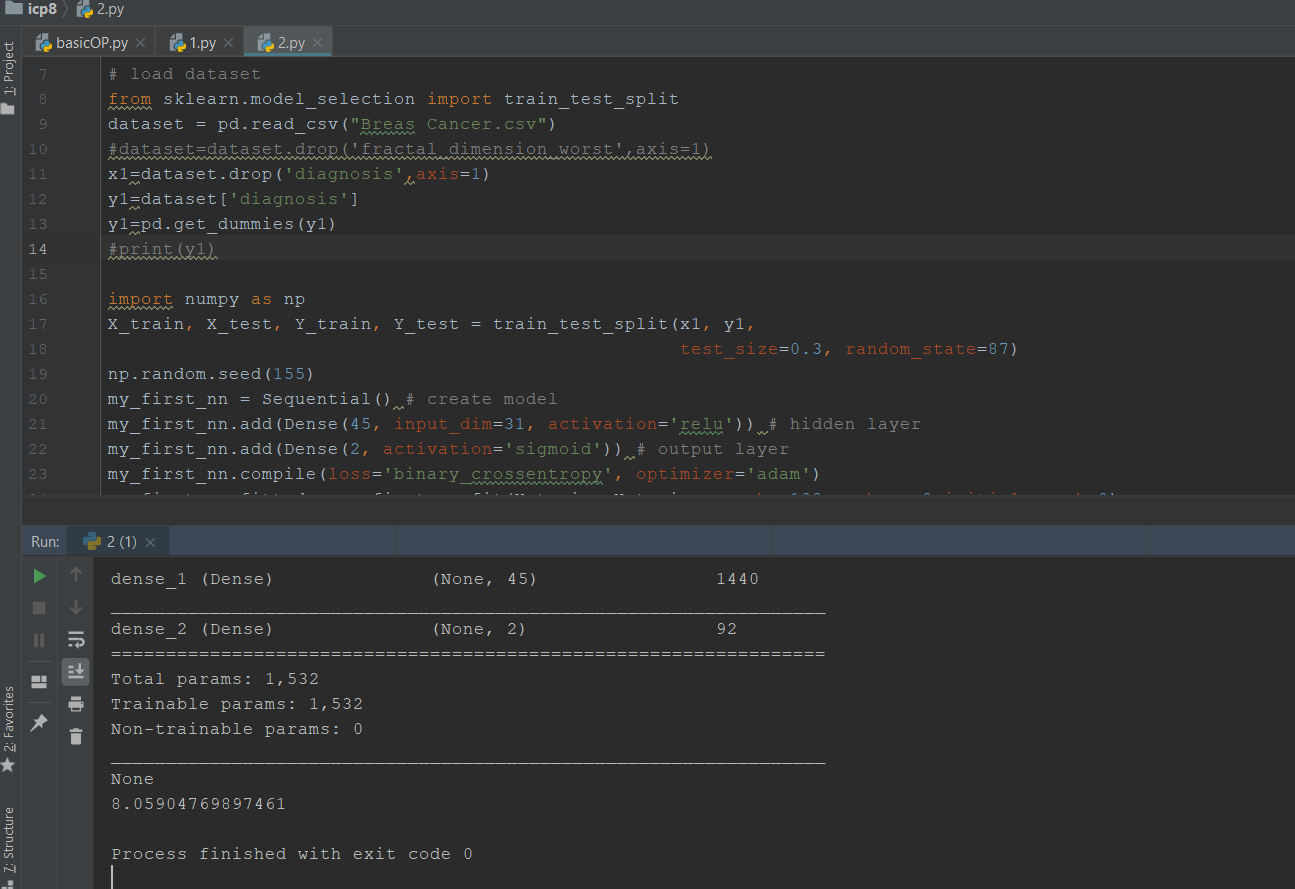
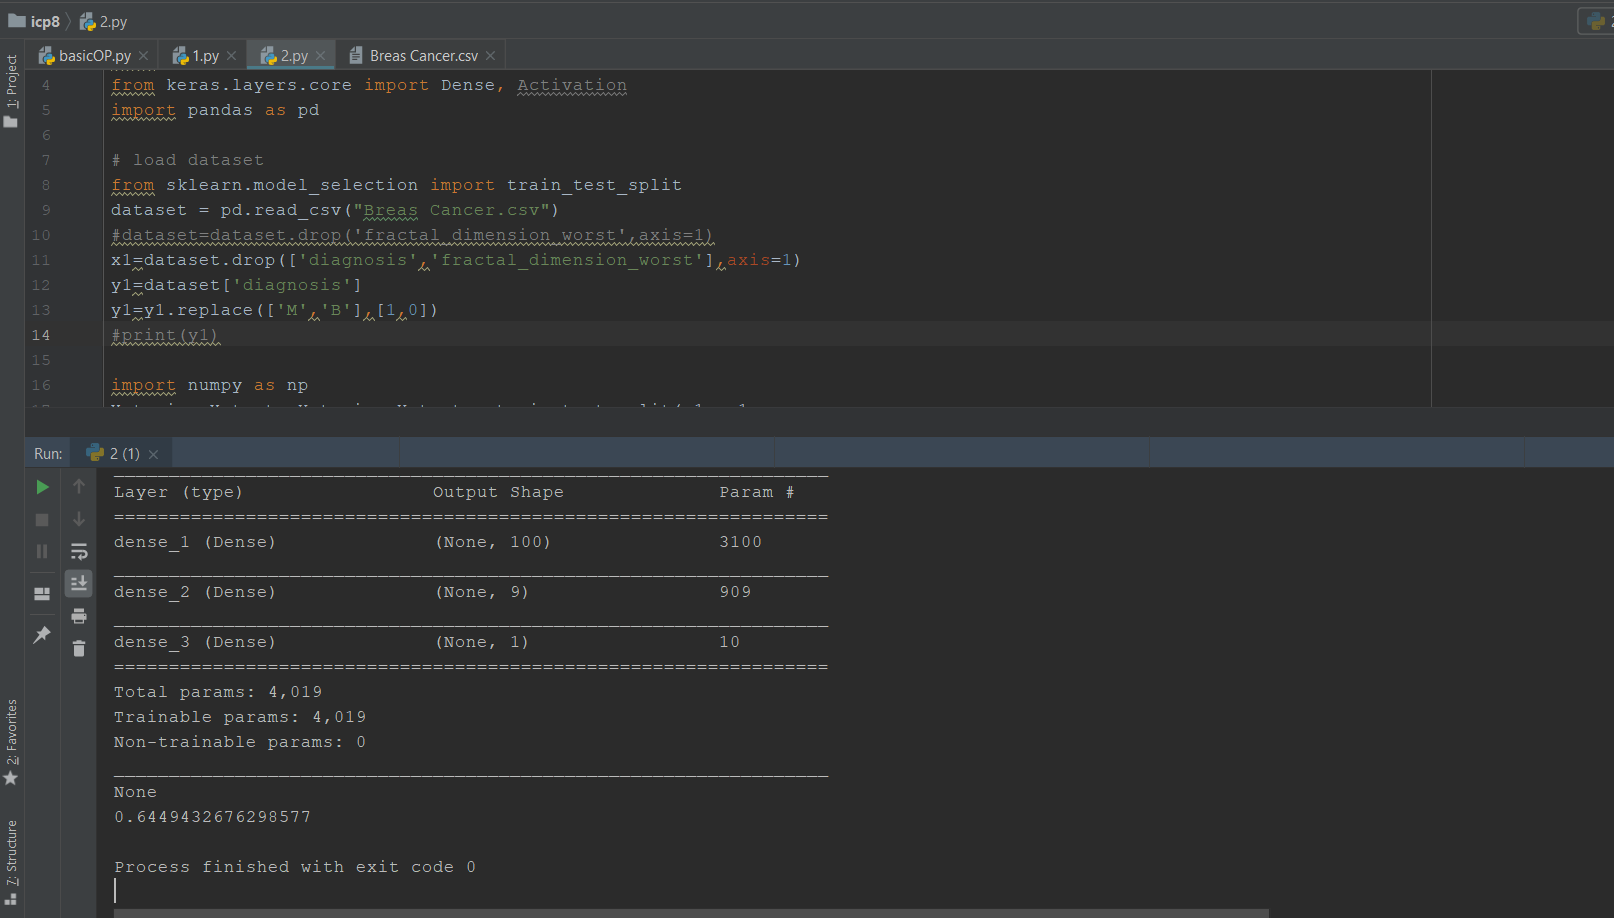
icp8

diff --git a/icp8/source/2.py b/icp8/source/2.py
@@ -8,9 +8,9 @@ import pandas as pd
 from sklearn.model_selection import train_test_split
 dataset = pd.read_csv("Breas Cancer.csv")
 #dataset=dataset.drop('fractal_dimension_worst',axis=1)
-x1=dataset.drop('diagnosis',axis=1)
+x1=dataset.drop(['diagnosis','fractal_dimension_worst'],axis=1)
 y1=dataset['diagnosis']
-y1=pd.get_dummies(y1)
+y1=y1.replace(['M','B'],[1,0])
 #print(y1)
 
 import numpy as np
@@ -18,8 +18,10 @@ X_train, X_test, Y_train, Y_test = train_test_split(x1, y1,
                                                     test_size=0.3, random_state=87)
 np.random.seed(155)
 my_first_nn = Sequential() # create model
-my_first_nn.add(Dense(45, input_dim=31, activation='relu')) # hidden layer
-my_first_nn.add(Dense(2, activation='sigmoid')) # output layer
+my_first_nn.add(Dense(100, input_dim=30, activation='relu')) # hidden layer
+my_first_nn.add(Dense(9,  activation='sigmoid')) # hidden layer
+
+my_first_nn.add(Dense(1, activation='sigmoid')) # output layer
 my_first_nn.compile(loss='binary_crossentropy', optimizer='adam')
 my_first_nn_fitted = my_first_nn.fit(X_train, Y_train, epochs=100,verbose=0,initial_epoch=0)
 print(my_first_nn.summary())
